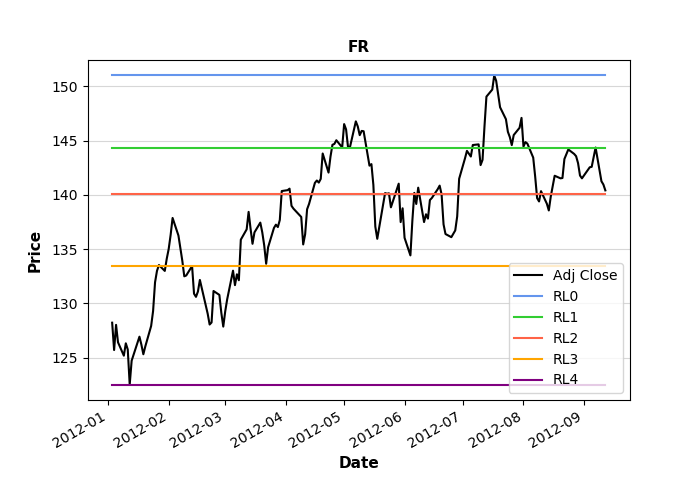
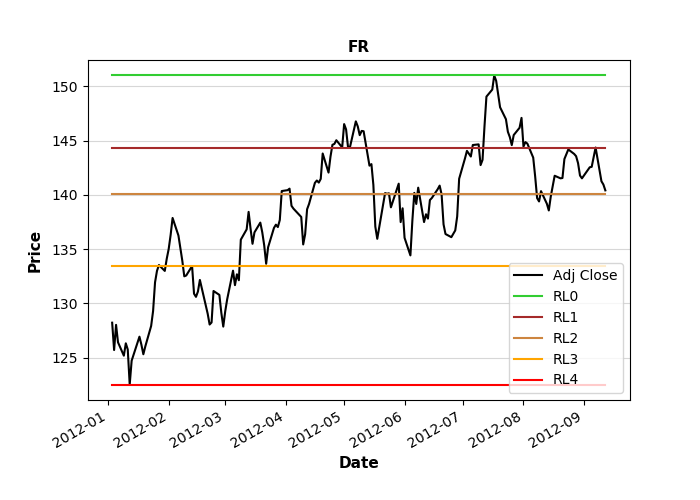
refactor: FR indicator reviewed.
FR indicator reviewed, updates applied based on the previous design
decisions.

diff --git a/tradingti/indicators/_support_resistance.py b/tradingti/indicators/_support_resistance.py
@@ -27,8 +27,8 @@ class FR(TI):
 
     Args:
         df_data (pandas dataframe): The input data to the Technical Indicator.
-            Index is of type date. It contains the below columns:
-            'Adj Close'
+            Index is of type date. The indicator requires the following stock
+            data: 'Adj Close'
             
     Attributes:
         -
@@ -37,37 +37,29 @@ class FR(TI):
         -
         
     Raises:
-        - TypeError
-        - ValueError
+        TypeError (Raised from validateStockData method)
+        ValueError (Raised from validateStockData method)
         
     '''
     def __init__(self, df_data):
-        
-        # Validate the input data, check tradingti.utils._data_validation module
-        # for details
-        data_validation = validateStockData(df_data)
-        if data_validation is not None:
-            raise(TypeError(data_validation))
-            
-        # Validate that all required input data are available
-        if 'Adj Close' not in df_data.columns:
-            raise(ValueError('Input \'Adj Close\' data are missing for FR ' +\
-                'indicator use. Mandatory input data are: \'Adj Close\'.'))
-            
-        # Sort the input data and fill the missing values if any
-        self._input_data = fillMissingValues(df_data)['Adj Close']
+       
+        # Validate and tranform the input data, check tradingti.utils.
+        # _data_validation module for more details
+        input_data = validateStockData(data = df_data, required_columns = 
+            ['Adj Close'], indicator_name = 'FR')
 
         # Parent class constructor (all job is done here, parent class provides 
-        # the public interface for accessing the data of the indicator)
-        super().__init__(input_data = self._input_data, 
-            ti_data = self._calculateIndicator(df_data['Adj Close']),
-            indicator_name = 'FR', lines_color = ['black', 'cornflowerblue', 
-            'limegreen', 'tomato', 'orange', 'purple'], subplots = False)
+        # the public interface for accessing the data of the indicator)    
+        super().__init__(input_data = input_data, 
+            ti_data = self._calculateIndicator(input_data),
+            indicator_name = 'FR', plotted_input_columns = ['Adj Close'], 
+            lines_color = ['black', 'limegreen', 'brown', 'peru', 
+            'orange', 'red'], subplots = False)
         
         
     def _calculateIndicator(self, input_data):
         '''
-        Calculates the FR for the given input data.
+        Calculates the FR technical indicator for the given input data.
 
         Args:
             input_data (pandas dataframe): The input data to the Technical 
@@ -81,22 +73,21 @@ class FR(TI):
                 indicator. Index is of type date. It contains five columns, the
                 resistance levels 'RL0', 'RL1', 'RL2', 'RL3' and 'RL4'.
         '''
-        
-        total_max = input_data.max()
-        total_min = input_data.min()
-        
+
+        total_max = input_data['Adj Close'].max()
+        total_min = input_data['Adj Close'].min()
+
         max_min_difference = total_max - total_min
         
         retracement_levels = [total_max - c*max_min_difference for c in 
             [0.0, 0.236, 0.382, 0.618, 1.0]]
-
+            
         fr = pd.DataFrame(index = input_data.index, 
             data = [[retracement_levels[i] for i in 
             range(len(retracement_levels))]]*len(input_data.index), 
             columns = ['RL' + str(i) for i in range(len(retracement_levels))])
         
         return fr
-        
         
         
     def getSignal(self):
@@ -110,34 +101,35 @@ class FR(TI):
             -
 
         Returns:
-            integer: The Trading signal. Possible values are {'Hold': 0, 
-                'Buy': -1, 'Sell': 1}. See TRADE_SIGNALS package constant.
+            tuple (string, integer): The Trading signal. Possible values are 
+            ('Hold', 0), ('Buy', -1), ('Sell', 1). See TRADE_SIGNALS package 
+            constant.
         '''
         
         # Moves from in RL to another in downward direction
         if self._input_data.iat[-2,0] > self._ti_data.iat[-2,3] and\
             self._input_data.iat[-1,0] < self._ti_data.iat[-1,3]:
-            return TRADE_SIGNALS['Sell']
+            return ('Sell', TRADE_SIGNALS['Sell'])
             
         if self._input_data.iat[-2,0] > self._ti_data.iat[-2,2] and\
             self._input_data.iat[-1,0] < self._ti_data.iat[-1,2]:
-            return TRADE_SIGNALS['Sell']
+            return ('Sell', TRADE_SIGNALS['Sell'])
             
         if self._input_data.iat[-2,0] > self._ti_data.iat[-2,1] and\
             self._input_data.iat[-1,0] < self._ti_data.iat[-1,1]:
-            return TRADE_SIGNALS['Sell']
+            return ('Sell', TRADE_SIGNALS['Sell'])
             
         # Moves from in RL to another in the upward direction
         if self._input_data.iat[-2,0] < self._ti_data.iat[-2,3] and\
             self._input_data.iat[-1,0] > self._ti_data.iat[-1,3]:
-            return TRADE_SIGNALS['Buy']
+            return ('Buy', TRADE_SIGNALS['Buy'])
             
         if self._input_data.iat[-2,0] < self._ti_data.iat[-2,2] and\
             self._input_data.iat[-1,0] > self._ti_data.iat[-1,2]:
-            return TRADE_SIGNALS['Buy']
+            return ('Buy', TRADE_SIGNALS['Buy'])
             
         if self._input_data.iat[-2,0] < self._ti_data.iat[-2,1] and\
             self._input_data.iat[-1,0] > self._ti_data.iat[-1,1]:
-            return TRADE_SIGNALS['Buy']
+            return ('Buy', TRADE_SIGNALS['Buy'])
             
-        return TRADE_SIGNALS['Hold']
+        return ('Hold', TRADE_SIGNALS['Hold'])

diff --git a/examples/indicators/support_resistance/indicators_fr.py b/examples/indicators/support_resistance/indicators_fr.py
@@ -14,18 +14,17 @@ Python Version: 3.6
 '''
 
 import pandas as pd
-from pandas.plotting import register_matplotlib_converters
-# Converters used in parsing the dates from csv
-register_matplotlib_converters()
-
 from tradingti.indicators import FR
-import tradingti as tti
+
+# Future Warning matplotlib
+from pandas.plotting import register_matplotlib_converters
+register_matplotlib_converters()
 
 # Read data from csv file. Set the index to the correct column (dates column)
 df = pd.read_csv('../data/sample_data.csv', parse_dates = True, index_col = 0)
 
 # Calculate the FR indicator
-fr = FR(df.sort_index(ascending = True).loc['2012-01-01':, ['Adj Close']])
+fr = FR(df[df.index >= '2012-01-01'])
 
 # Save the plot of the calculated Technical Indicator
 fr.getTiPlot().savefig('../figures/indicators_fr_example.png')
@@ -42,7 +41,4 @@ print('\nFR value at 2012-09-06:', fr.getTiValue('2012-09-06'))
 print('\nFR value at', df.index[0], ':', fr.getTiValue())
 
 # Get signal from FR
-signal = fr.getSignal()
-for key, value in tti.TRADE_SIGNALS.items(): 
-    if value == signal:
-        print('\nSignal:', key, '[', value, ']')
+print('\nSignal:', fr.getSignal())

diff --git a/examples/indicators/support_resistance/README.md b/examples/indicators/support_resistance/README.md
@@ -32,7 +32,7 @@ FR value at 2012-09-06: [151.0, 144.27872, 140.12064, 133.39936, 122.52]
 
 FR value at 2012-09-12 00:00:00 : [151.0, 144.27872, 140.12064, 133.39936, 122.52]
 
-Signal: Hold [ 0 ]
+Signal: ('Hold', 0)
 ```
 
 The script generates the below plots:
@@ -42,7 +42,7 @@ The script generates the below plots:
 
 ## Prerequisites
 1. python: `version 3.6` or later
-2. tradingti library: `latest commit in master branch`
+2. tradingti library: `version 0.1` or later
 3. matplotlib: `version 3.1.2` or later
 4. pandas: `version 0.25.3` or later
 
